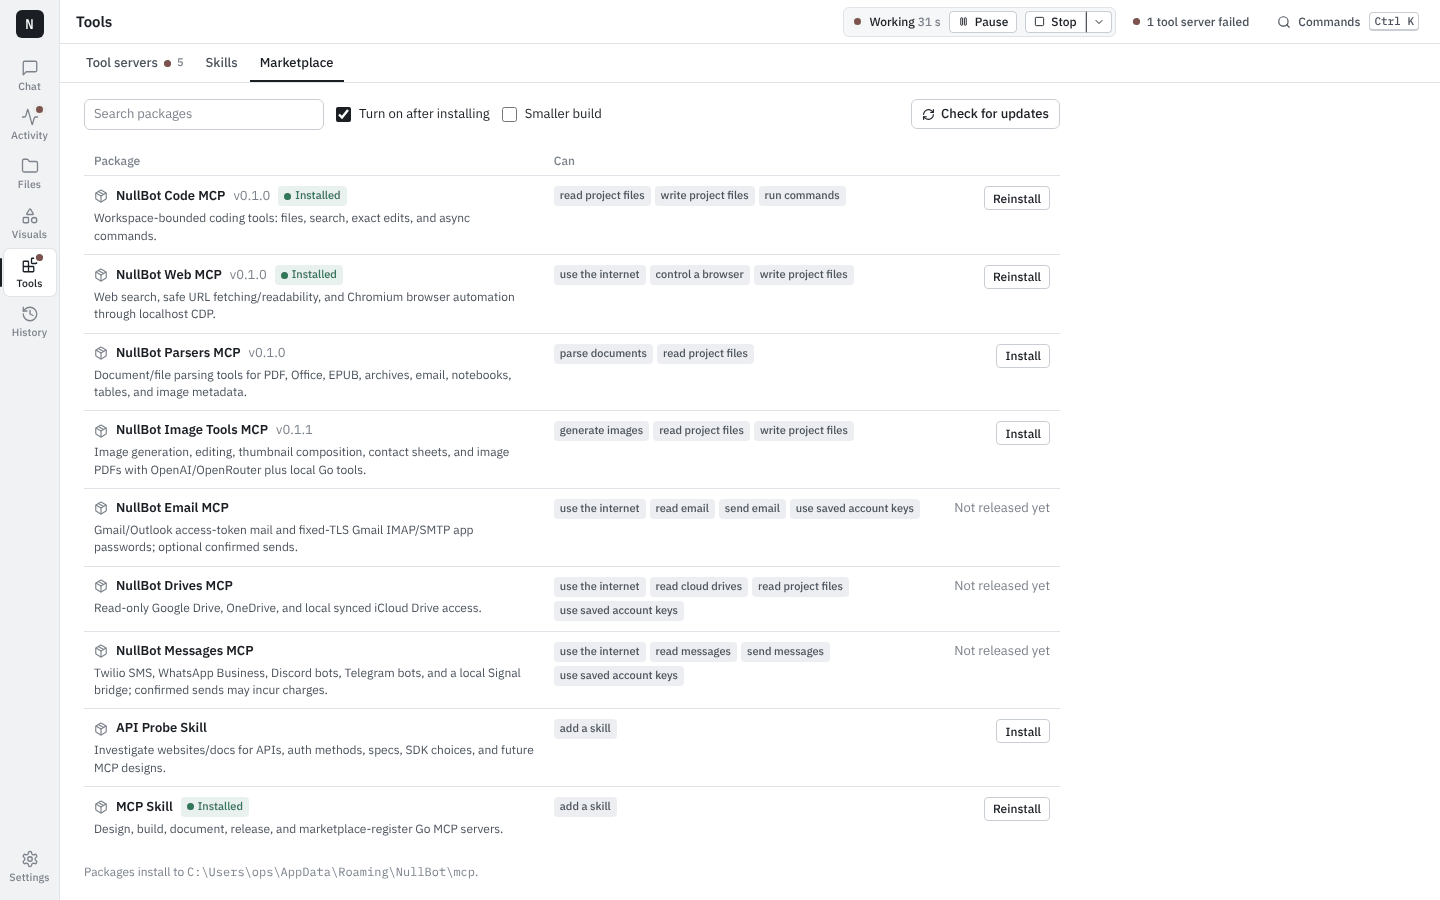
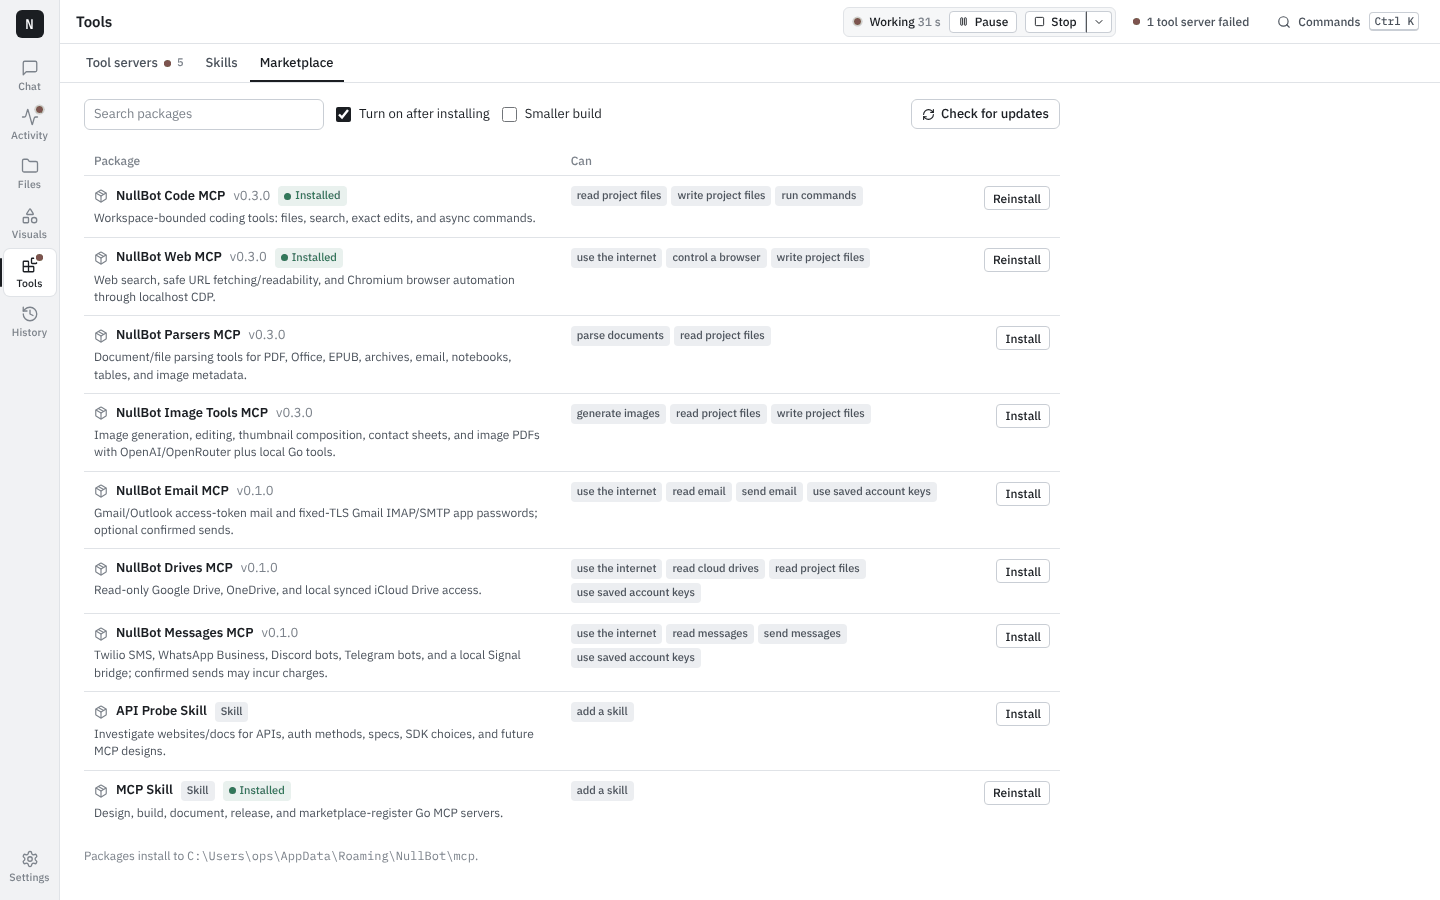
Docs: the service servers are released; new Marketplace screenshot
Claude-Session: https://claude.ai/code/session_01BqqKUvmV1fmy1om1iUFBL7

diff --git a/docs/changelog/v0.5.0.md b/docs/changelog/v0.5.0.md
@@ -42,10 +42,12 @@ interactive visuals. Built on NullBot v0.5.0 and tinychain v0.3.0.
   OpenDocument, RTF, PDF, pictures, audio, video, fonts and archives.
 - **History.** Search every saved session's messages and tool calls, filter
   by kind and date, see where each match is, and continue the conversation.
-- **Marketplace.** Versions come from each package's release; permissions
-  read in plain words; packages without a release are marked as not released
-  instead of failing to install. New skill packs: web search, web tools,
-  browser automation and browser research.
+- **Marketplace.** Install fetches each package's newest release and its
+  checksum, so it works even when the catalog is stale; versions come from
+  the release; permissions read in plain words; a package without a release
+  says so. Reinstalling a running server replaces it and stops the old build.
+  New skill packs: web search, web tools, browser automation and browser
+  research.
 - **Skills from the `/` menu** are attached to the message instead of typed
   into it.
 
@@ -63,7 +65,7 @@ interactive visuals. Built on NullBot v0.5.0 and tinychain v0.3.0.
   IMAP/SMTP, Outlook, Google Drive, OneDrive, iCloud Drive folders, Twilio,
   WhatsApp Business, Discord, Telegram and a local Signal bridge), stored with
   Windows DPAPI and passed only to the matching server installed from the
-  Marketplace. Those three servers are not released yet.
+  Marketplace.
 - NullBot can also run headless (`nullbot -p`, `nullbot serve`); see the
   NullBot release.
 

diff --git a/README.md b/README.md
@@ -159,9 +159,9 @@ hand, local or remote.
 | [Web](https://github.com/Bradthebrad/nullbot-web-mcp) | Web search, readable page fetches, browser automation and testing |
 | [Parsers](https://github.com/Bradthebrad/nullbot-parsers-mcp) | Text, tables and metadata from PDF, Office, EPUB, archives and notebooks |
 | [Image Tools](https://github.com/Bradthebrad/nullbot-imagetools-mcp) | Image generation and editing, thumbnails, contact sheets, PDFs |
-| [Email](https://github.com/Bradthebrad/nullbot-emails-mcp) | Gmail and Outlook (not released yet) |
-| [Drives](https://github.com/Bradthebrad/nullbot-drives-mcp) | Google Drive, OneDrive, synced folders, read only (not released yet) |
-| [Messages](https://github.com/Bradthebrad/nullbot-messages-mcp) | Discord, Telegram, Twilio SMS, WhatsApp Business, Signal bridge (not released yet) |
+| [Email](https://github.com/Bradthebrad/nullbot-emails-mcp) | Gmail and Outlook |
+| [Drives](https://github.com/Bradthebrad/nullbot-drives-mcp) | Google Drive, OneDrive, synced folders, read only |
+| [Messages](https://github.com/Bradthebrad/nullbot-messages-mcp) | Discord, Telegram, Twilio SMS, WhatsApp Business, Signal bridge |
 
 Skill packs for web search, browser automation and research, API probing and
 building MCP servers come from
